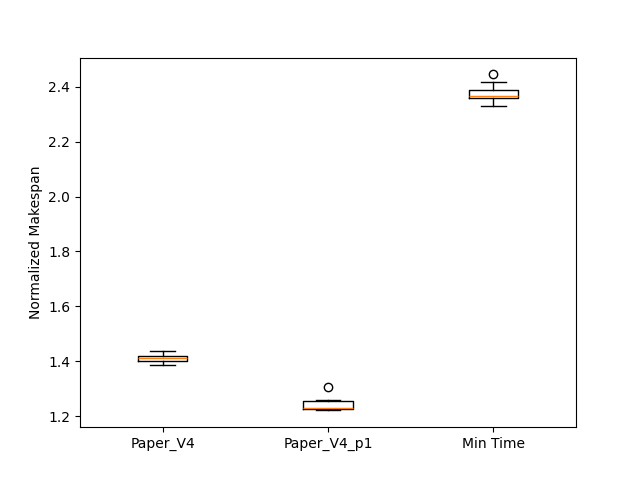
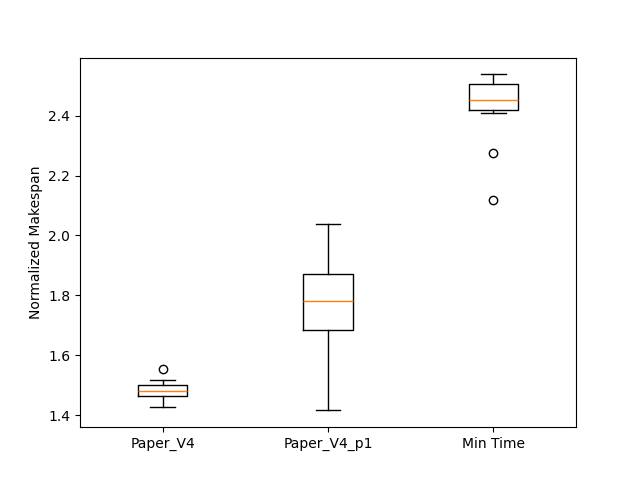
Boxplot for other parameters

diff --git a/utils.py b/utils.py
@@ -395,24 +395,26 @@ def display_results_boxplot(version1, version2, saving_directory):
     name_list = ["Amdahl", "Communication", "General", "Roofline"]
     parameters = ["Density", "Fat", "Jump", "n", "p"]
     for name in name_list:
-        Paper_V1 = []
-        Paper_V2 = []
-        Min_Time = []
-        f = open("Results_" + version1 + "/P/" + name + "/all.csv", 'r', newline='')
-        reader = csv.reader(f)
-        for line in reader:
-            if line[0] == "1500":
-                Paper_V1 += [float(line[1]) / float(line[3])]
-        f.close()
-        f = open("Results_" + version2 + "/P/" + name + "/all.csv", 'r', newline='')
-        reader = csv.reader(f)
-        for line in reader:
-            if line[0] == "1500":
-                Paper_V2 += [float(line[1]) / float(line[3])]
-                Min_Time += [float(line[2]) / float(line[3])]
-        f.close()
-        plt.boxplot([Paper_V1, Paper_V2, Min_Time])
-        plt.xticks([1, 2, 3], ['Paper_' + version1, 'Paper_' + version2, 'Min Time'])
-        plt.ylabel('Normalized Makespan')
-        plt.savefig(saving_directory + "/" + name + "_Default_parameters.png")
-        plt.show()
+            Paper_V1 = []
+            Paper_V2 = []
+            Min_Time = []
+            f = open("Results_" + version1 + "/" + "Jump" +"/"+ name + "/all.csv", 'r', newline='')
+            reader = csv.reader(f)
+            for line in reader:
+                if line[0] ==  "100" or line[0] ==  "1500" or line[0] == "0.1" or line[0] == "10" or line[0] ==  "500":
+                    Paper_V1 += [float(line[1]) / float(line[3])]
+            f.close()
+            f = open("Results_" + version2 + "/"+ "Jump" +"/"+ name + "/all.csv", 'r', newline='')
+            reader = csv.reader(f)
+            for line in reader:
+                if line[0] ==  "100" or line[0] ==  "1500" or line[0] == "0.1" or line[0] == "10" or  line[0] ==  "500":
+                    Paper_V2 += [float(line[1]) / float(line[3])]
+                    Min_Time += [float(line[2]) / float(line[3])]
+            f.close()
+            plt.boxplot([Paper_V1, Paper_V2, Min_Time])
+            plt.xticks([1, 2, 3], ['Paper_' + version1, 'Paper_' + version2, 'Min Time'])
+            plt.ylabel('Normalized Makespan')
+            plt.savefig(saving_directory + "/" + name + "Jump" + ".png")
+            plt.show()
+
+        

diff --git a/main.py b/main.py
@@ -13,7 +13,7 @@ start_time = time.process_time_ns()
 
 # Computations for the first version of the processor allocation algorithm (minimizing alpha)
 
-compute_and_save('regular','Results_V4_test/Regular/',nb_iterations,version=0)
+#compute_and_save('regular','Results_V4_test/Regular/',nb_iterations,version=0)
 #compute_and_save('density','Results_V4_p1/Density/',nb_iterations,version=0)
 #compute_and_save('Fat','Results_V4_p1/Fat/',nb_iterations,version=0)
 #compute_and_save('jump','Results_V4_p1/Jump/',nb_iterations,version=0)
@@ -35,7 +35,7 @@ print(f"Finished computing in {(end_time-start_time)/(10**9):.3f}s")
 
 # Displaying the results for the first version of the algorithm
 
-display_results('regular','Results_Power/Regular/')
+#display_results('regular','Results_Power/Regular/')
 #display_results('density','Results_V4_p1/Density/')
 #display_results('Fat','Results_V4_p1/Fat/')
 #display_results('jump','Results_V4_p1/Jump/')
@@ -62,4 +62,4 @@ display_results('regular','Results_Power/Regular/')
 
 # To compare the two version of the processor allocation algorithm with standard parameters
 
-#display_results_boxplot("V4", "V4_p1", "Merging_V4_and_V4_p1")
+display_results_boxplot("V4", "V4_p1", "Merging_V4_and_V4_p1")

diff --git a/models.py b/models.py
@@ -79,7 +79,7 @@ class RooflineModel(Model):
         return w / min(nb_proc, p)
 
     def p_max(self, task: Task, p: int) -> int:
-        return min(ceil(task.get_p()), p)
+        return min(ceil(task.get_p()), p) #max degree of parallelism, no.of proc
 
 
 class Power25Model(Model):
